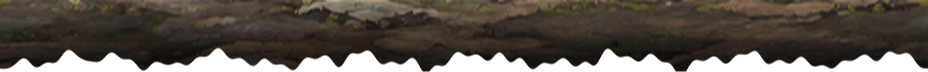
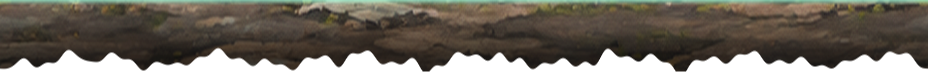
Hollow Den ledges easier to see: brighter, with a pale teal glow along the top edge
Claude-Session: https://claude.ai/code/session_01FdNBSjX3EpmvbacjATUpjx

diff --git a/Docs/EMBERHAVEN_SLICE_CHECKLIST.md b/Docs/EMBERHAVEN_SLICE_CHECKLIST.md
@@ -66,11 +66,12 @@ Knight run, still open:
 - [x] Every bug reported in the three runs.
 - [x] Every "feel" note that is a code change.
 - [ ] Known loose ends inside the region:
-  - [ ] Den Shade: owner's decision 2026-11-25 is the earlier wraith art, still flying. Restored and pushed; waiting for the owner to confirm.
-  - [ ] Hollow Den off the test-painting code and onto the normal backdrop path. (Owner is checking the den in Unity first.)
-  - [ ] Shale Cliffs ledges in the earthen-ledge style (marsh and den already are). Cut and pushed 2026-11-25; waiting for the owner to confirm.
-  - [ ] Floor-strip double image check on marsh, cliffs, den and glade (the Highspire fix). (Owner is checking in Unity.)
-  - [ ] Tall maps (Shale Cliffs): painting runs out at the top. (Owner is checking in Unity.)
+  - [x] Den Shade: owner's decision 2026-11-25 is the earlier wraith art, still flying. Restored; the owner looked over the den the same evening and found nothing wrong.
+  - [x] Hollow Den: the owner checked it 2026-11-25 and it looks good, so it stays on its current painting code (moving it would be a risk for no visible gain).
+  - [ ] Hollow Den ledges were a little hard to see (owner, 2026-11-25). Brightened, with a pale teal glow along the top edge; pushed, waiting for the owner to confirm.
+  - [x] Shale Cliffs ledges in the earthen-ledge style. Cut 2026-11-25; the owner found nothing wrong on the cliffs.
+  - [x] Floor-strip double image check on marsh, cliffs, den and glade: the owner checked 2026-11-25, nothing found.
+  - [x] Tall maps (Shale Cliffs): painting running out at the top. The owner noticed nothing on the cliffs 2026-11-25; closed.
 
 ### 3. Sound
 - [ ] Hero: basic attack, skill and movement ability for each of the three heroes; jump, land, hurt, death, level-up.
